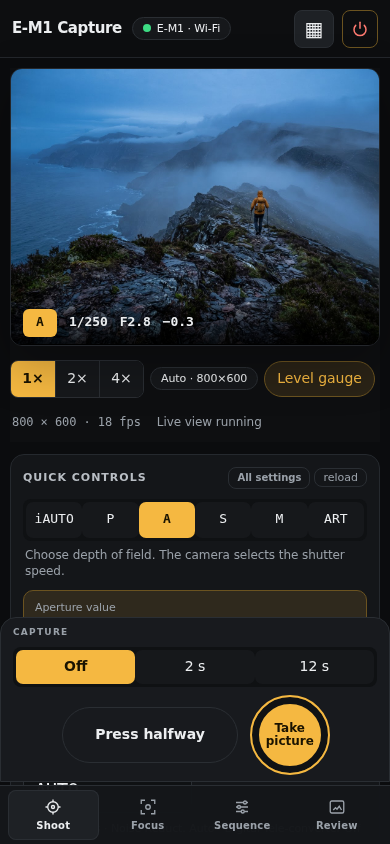
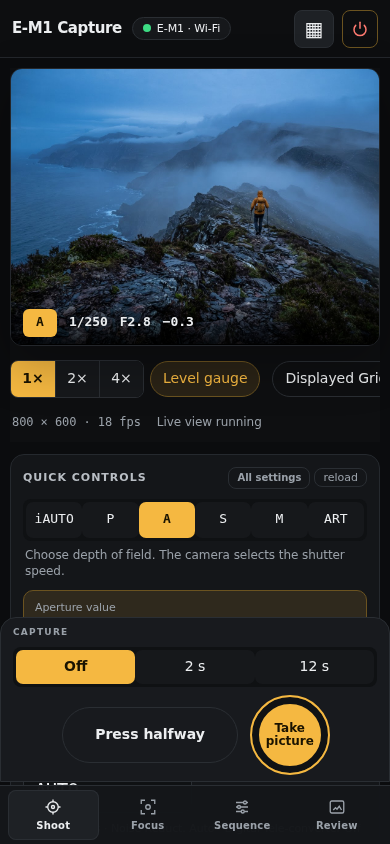
Hide mobile live-view size control
Keep adaptive resolution fully automatic on mobile and show no size or auto-resolution button in the capture toolbar.

Figma-Prompt-ID: 140
Figma-Session-ID: 9e63d428-c352-4131-b44d-27a1b17f3922

Changed region(s): [[0.3692, 0.4313, 0.9846, 0.4929]]

diff --git a/omcap/web/index.html b/omcap/web/index.html
@@ -394,7 +394,6 @@ section h2{margin-bottom:10px;color:#b9bec4;font-size:var(--fs-label);font-weigh
   .tb::-webkit-scrollbar{display:none}
   .tb .vsep,.tb .sp,#popLive,#popCam{display:none}
   label[data-feat=lvsize]{display:none!important}
-  #autoLvStatus:not([hidden]){display:inline-flex}
   #panels{gap:8px}
   #panelNav button{height:50px}
   section{padding:12px}
@@ -499,7 +498,6 @@ section h2{margin-bottom:10px;color:#b9bec4;font-size:var(--fs-label);font-weigh
     <label class="lab" data-feat="lvsize"><span data-i18n="lv.size">Size</span> <select id="lvqty">
       <option>0320x0240</option><option>0640x0480</option><option selected>0800x0600</option><option>1024x0768</option><option>1280x0960</option>
     </select></label>
-    <span id="autoLvStatus" class="chip" hidden data-feat="lvsize"></span>
     <span class="vsep"></span>
     <span id="lvTools" hidden>
       <label class="tog" data-feat="level"><input type="checkbox" id="lvlOn" checked> <span data-i18n="lv.level">Level gauge</span></label>
@@ -823,7 +821,6 @@ const I18N={en:{
   "lv.start": "Start live view",
   "lv.stop": "Stop live view",
   "lv.size": "Size",
-  "lv.auto": "Auto · {size}",
   "lv.autoReduced": "Live view adjusted to {size} for a smoother signal",
   "lv.second": "Second monitor",
   "lv.webcam": "Webcam (OBS)",
@@ -1145,20 +1142,14 @@ const MOBILE_LIVE=matchMedia('(max-width:700px)');
 const AUTO_LV_SIZES=['0640x0480','0800x0600','1024x0768','1280x0960'];
 let autoLvBusy=false,autoLvLastChange=0;
 const autoLvEnabled=()=>MOBILE_LIVE.matches&&!isUsb&&canWrite&&features.has('lvsize');
-function autoLvLabel(size){
-  const el=$('#autoLvStatus');
-  el.hidden=!autoLvEnabled();
-  if(size) el.textContent=tr('lv.auto',{size:size.replace(/^0+/,'').replace('x0','×')});
-}
 function idealMobileLvSize(){
   const px=Math.min(1280,Math.max(640,Math.ceil($('#viewport').clientWidth*(devicePixelRatio||1))));
   return AUTO_LV_SIZES.find(s=>parseInt(s,10)>=px)||AUTO_LV_SIZES.at(-1);
 }
 function prepareAutoLiveSize(){
-  if(!autoLvEnabled()){autoLvLabel();return false}
+  if(!autoLvEnabled()) return false;
   const size=idealMobileLvSize();
   $('#lvqty').value=size; lvPicked=true; autoLvLastChange=Date.now();
-  autoLvLabel(size);
   return true;
 }
 async function reduceAutoLiveSize(){
@@ -1171,7 +1162,7 @@ async function reduceAutoLiveSize(){
   if(!stale&&!slow) return;
   const next=AUTO_LV_SIZES[i-1];
   autoLvBusy=true; autoLvLastChange=Date.now();
-  $('#lvqty').value=next; lvPicked=true; autoLvLabel(next);
+  $('#lvqty').value=next; lvPicked=true;
   msg(tr('lv.autoReduced',{size:next.replace(/^0+/,'').replace('x0','×')}));
   try{await $('#lvStart').onclick()}finally{autoLvBusy=false}
 }
@@ -2344,7 +2335,7 @@ $('#layoutReset').onclick=()=>{layout={};commit()};
 $('#lvStart').onclick=async()=>{
   try{await api('/api/liveview',{action:'start',lvqty:isUsb&&!lvPicked?null:$('#lvqty').value});$('#live').src='/live.mjpg?'+Date.now();msg(tr('msg.lvRunning'));await tick();if(features.has('af_area'))loadAf();setTimeout(props,1500)}catch(e){msg(e.message,true)}};
 $('#lvqty').onchange=()=>{lvPicked=true;if(st.live)$('#lvStart').click()};
-MOBILE_LIVE.addEventListener('change',()=>{if(autoLvEnabled())prepareAutoLiveSize();else autoLvLabel()});
+MOBILE_LIVE.addEventListener('change',()=>{if(autoLvEnabled())prepareAutoLiveSize()});
 $('#lvStop').onclick=()=>act(tr('msg.lvStopped'),'/api/liveview',{action:'stop'});
 /* Shooting: the whole sequence. If Halfway is just holding focus, press through from there and release,
       as on the real shutter button. All the way and release are merged into it. */
